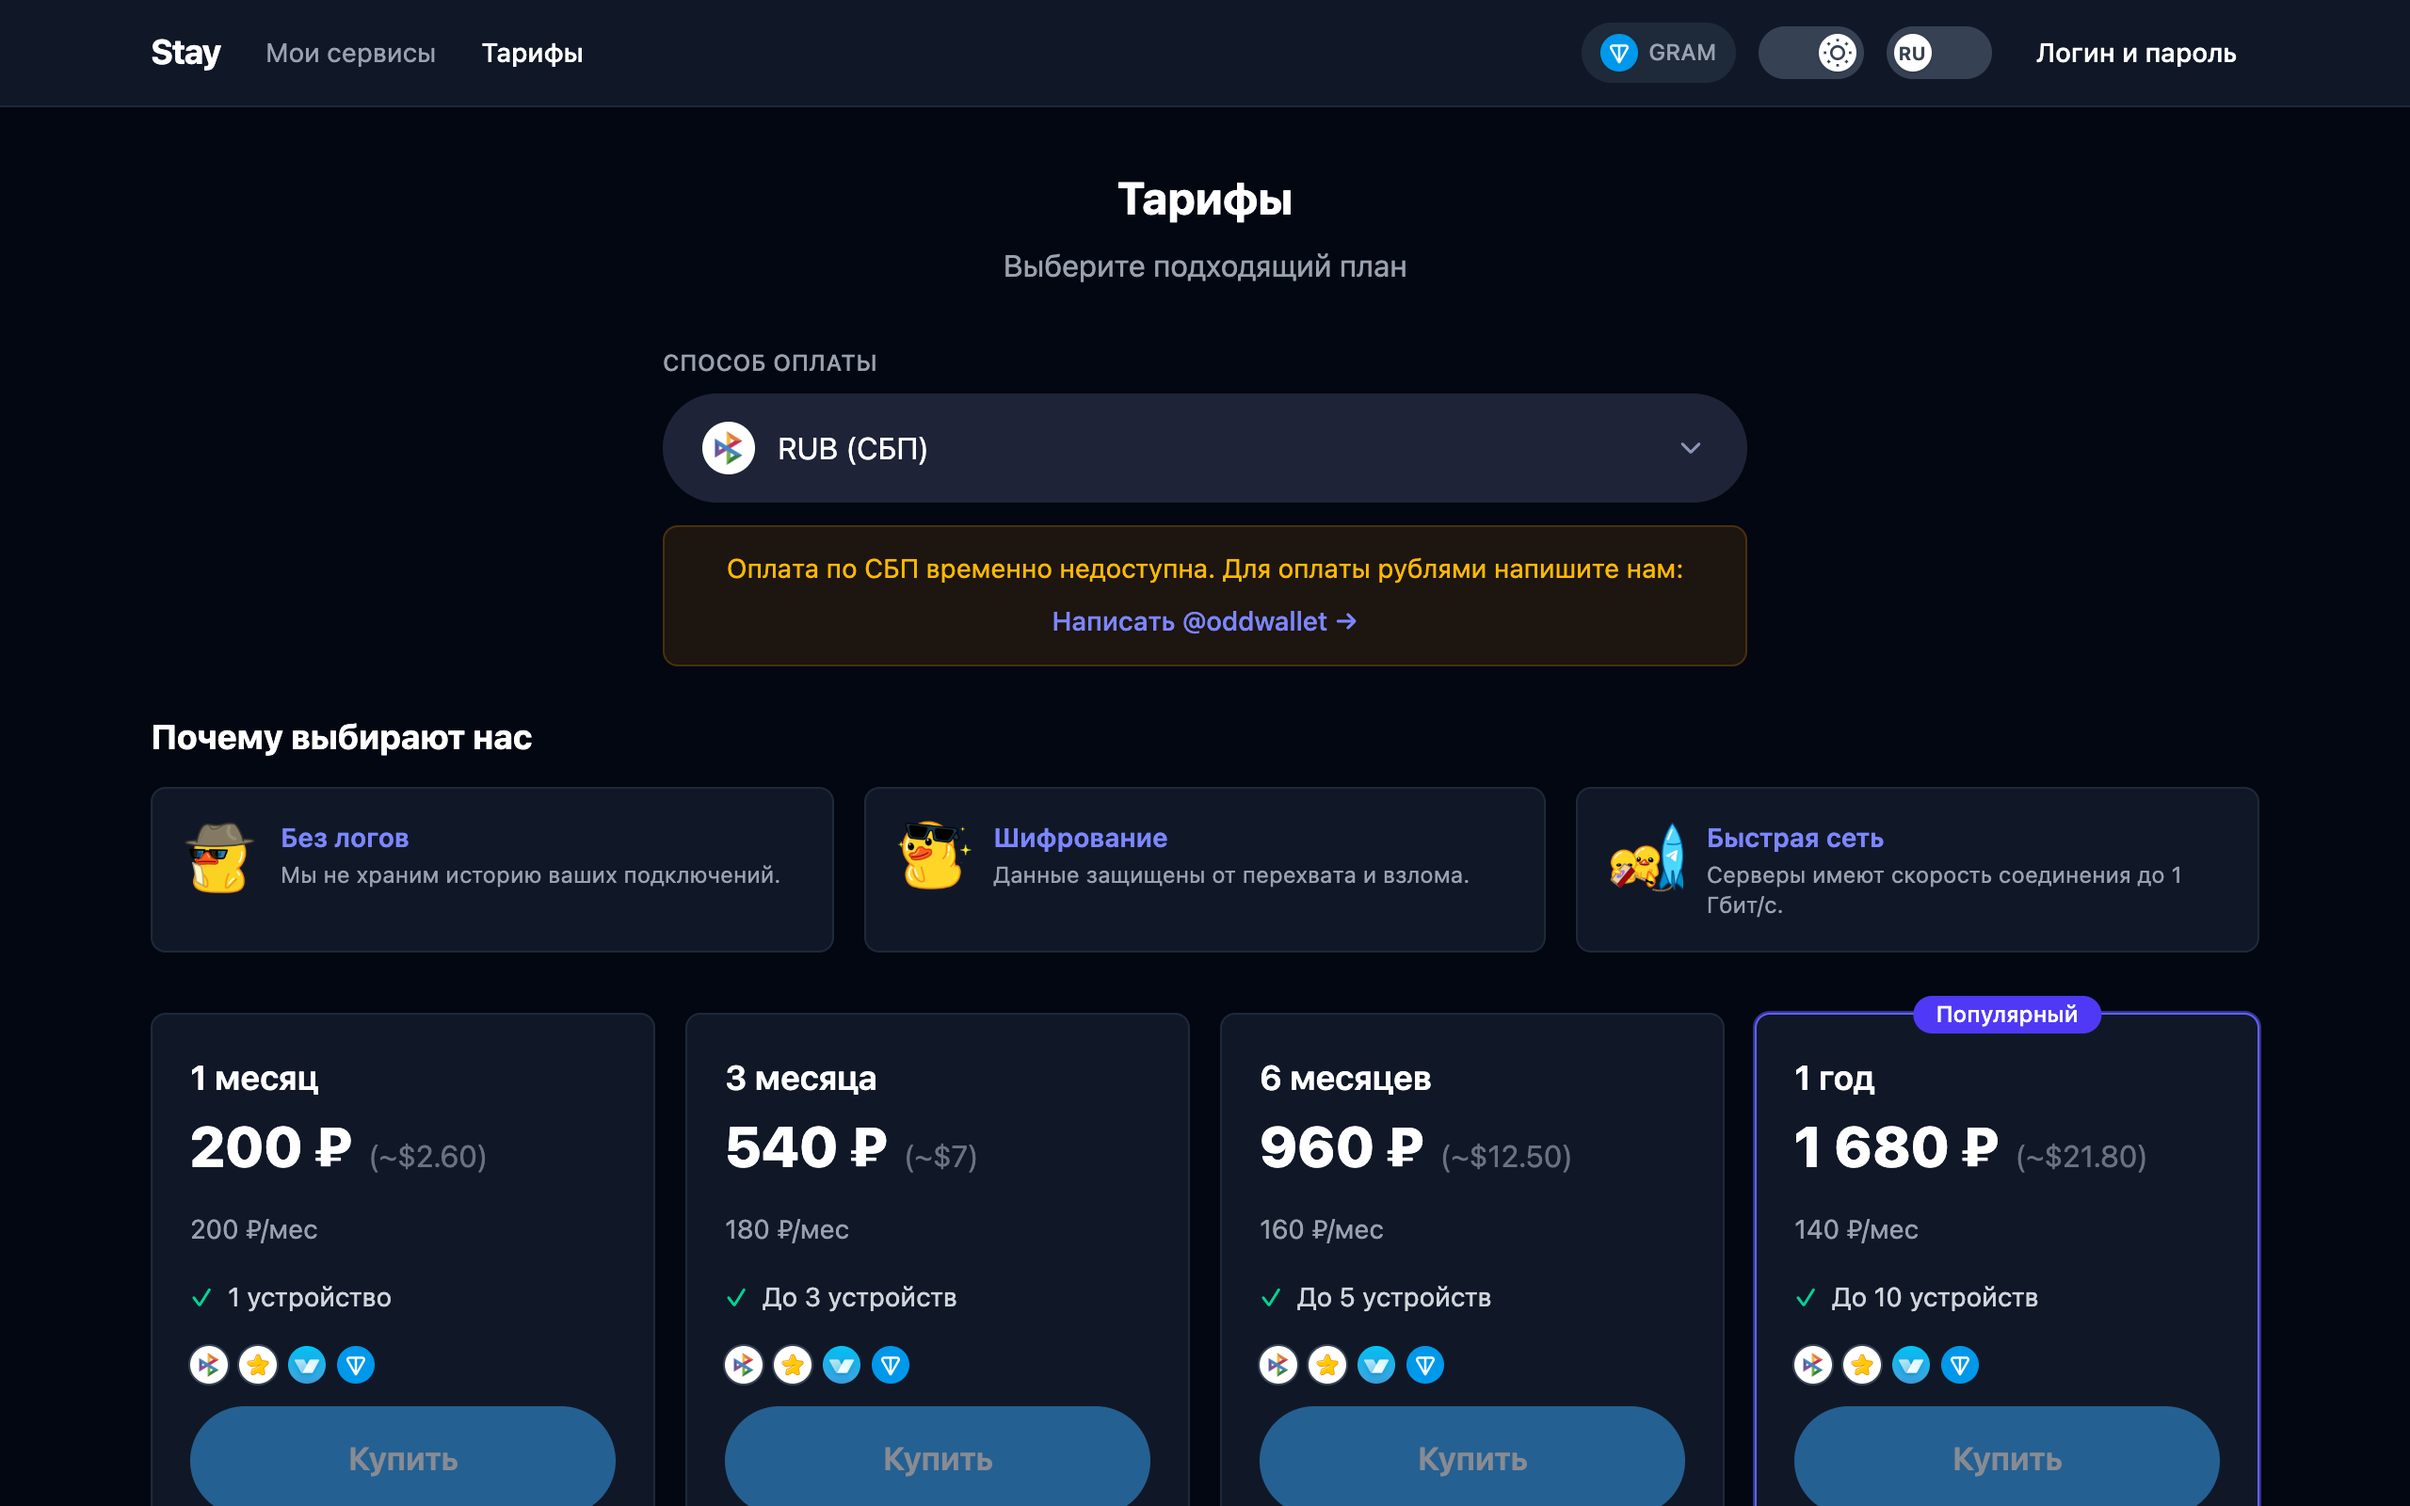
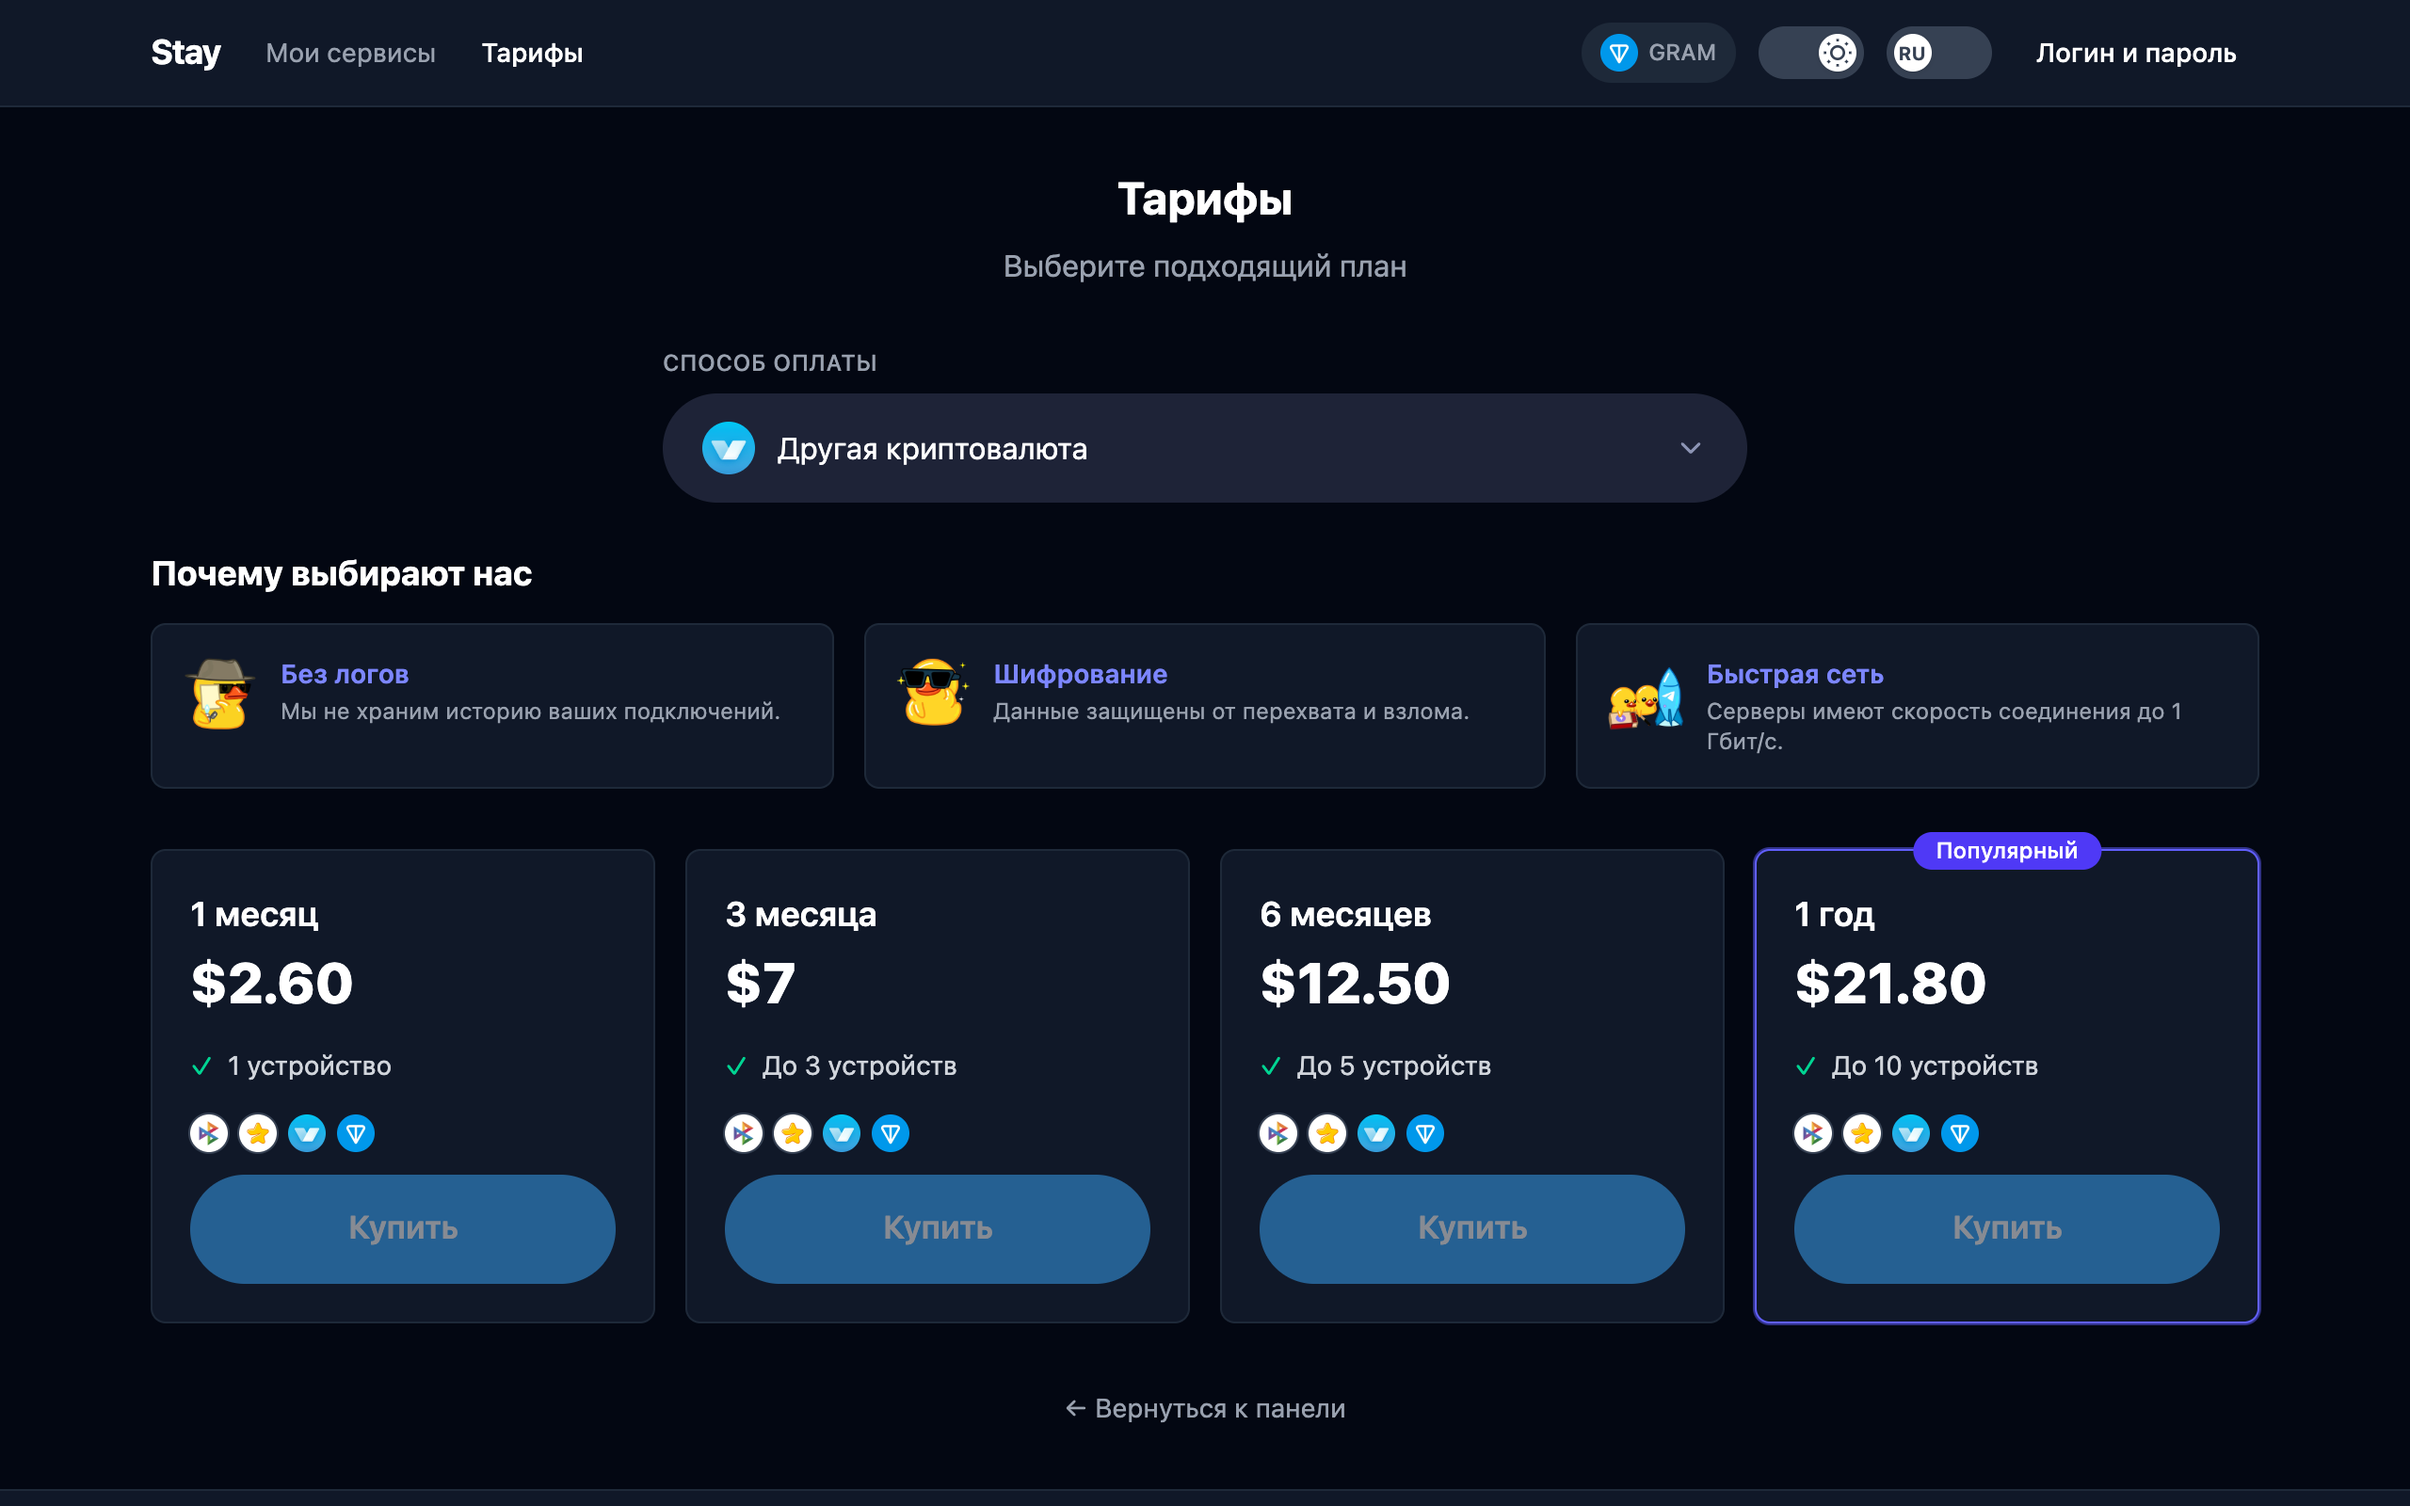
README: promo layout with site/bot/news links; pricing shot without SBP notice

diff --git a/README.md b/README.md
@@ -2,24 +2,19 @@
 
 # Stay
 
-**Telegram Mini App и сайт для продажи подписок на защищённое подключение.**
-Оплата в пару кликов, ссылка на подключение выдаётся сразу и работает ровно до конца оплаченного периода.
+**Защищённое подключение для ваших устройств — прямо из Telegram.**
+Оплата в пару кликов, ссылка на подключение приходит сразу и работает весь оплаченный период.
 
-[![Go](https://img.shields.io/badge/Go-1.24-00ADD8?logo=go&logoColor=white)](backend/go.mod)
-[![React](https://img.shields.io/badge/React-19-61DAFB?logo=react&logoColor=black)](frontend/package.json)
-[![TypeScript](https://img.shields.io/badge/TypeScript-5.9-3178C6?logo=typescript&logoColor=white)](frontend/package.json)
-[![PostgreSQL](https://img.shields.io/badge/PostgreSQL-15+-4169E1?logo=postgresql&logoColor=white)](backend/internal/database/db.go)
-[![Telegram Mini App](https://img.shields.io/badge/Telegram-Mini_App-26A5E4?logo=telegram&logoColor=white)](https://core.telegram.org/bots/webapps)
-[![Prometheus](https://img.shields.io/badge/Prometheus-+_Grafana-E6522C?logo=prometheus&logoColor=white)](ops/README.md)
-
-[Возможности](#возможности) · [Скриншоты](#скриншоты) · [Как устроено](#как-устроено) · [Запуск](#запуск) · [Эксплуатация](ops/README.md)
+[![Сайт](https://img.shields.io/badge/Сайт-staytg.org-4F46E5?style=for-the-badge)](https://staytg.org)
+[![Бот](https://img.shields.io/badge/Бот-@staytg__bot-26A5E4?style=for-the-badge&logo=telegram&logoColor=white)](https://t.me/staytg_bot)
+[![Новости](https://img.shields.io/badge/Новости-@staytg__news-26A5E4?style=for-the-badge&logo=telegram&logoColor=white)](https://t.me/staytg_news)
 
 </div>
 
 <p align="center">
   <picture>
     <source media="(prefers-color-scheme: dark)" srcset="docs/screenshots/home-dark.png">
-    <img alt="Главная страница" src="docs/screenshots/home-light.png" width="100%">
+    <img alt="Stay — главная" src="docs/screenshots/home-light.png" width="100%">
   </picture>
 </p>
 
@@ -27,16 +22,13 @@
 
 | | |
 |---|---|
-| 💳 **Четыре способа оплаты** | CryptoBot, СБП (DigitalPay), TON через TON Connect, Telegram Stars |
-| ⏳ **Подписки 1 / 3 / 6 / 12 месяцев** | Продление добавляет срок к текущему, а не сгорает |
-| 🔗 **Ссылки-подписки** | Клиенты создаются в панели 3x-ui, ссылка перестаёт работать в день окончания подписки |
-| 📱 **Telegram Mini App** | Вход по `initData`, оплата звёздами прямо в Telegram, уведомления от бота |
-| 🔐 **Три способа входа** | Telegram OIDC, Mini App, логин и пароль |
-| 🎁 **Рефералы** | Пригласивший получает 15% дней от каждой оплаты друга |
-| 🛠 **Админка** | Пользователи, роли, лимиты устройств, все подключения |
-| 📊 **Мониторинг и бэкапы** | Метрики Prometheus, дашборд Grafana, дамп базы раз в две недели |
-
-## Скриншоты
+| ⚡ **Мгновенно** | Оплатил, нажал «Создать» — ссылка на подключение готова |
+| ⏳ **1, 3, 6 или 12 месяцев** | Чем дольше срок, тем дешевле месяц. Продление добавляется к текущему сроку |
+| 📱 **До 10 устройств** | Отдельная ссылка для каждого телефона, ноутбука или планшета |
+| 💳 **Удобная оплата** | Криптовалюта через CryptoBot, GRAM через TON-кошелёк, Telegram Stars |
+| 🕶 **Без KYC и без логов** | Не нужны документы, мы не храним историю подключений |
+| 🤖 **Всё в Telegram** | Вход в один тап, напоминания об окончании подписки от бота |
+| 🎁 **Приглашай друзей** | +15% дней от каждой оплаты приглашённого друга |
 
 <table>
   <tr>
@@ -45,105 +37,22 @@
         <source media="(prefers-color-scheme: dark)" srcset="docs/screenshots/pricing-dark.png">
         <img alt="Тарифы" src="docs/screenshots/pricing-light.png">
       </picture>
-      <p align="center"><b>Тарифы и способы оплаты</b></p>
+      <p align="center"><b>Тарифы</b></p>
     </td>
     <td width="50%">
       <picture>
         <source media="(prefers-color-scheme: dark)" srcset="docs/screenshots/services-dark.png">
         <img alt="Мои сервисы" src="docs/screenshots/services-light.png">
       </picture>
-      <p align="center"><b>Подписка и ссылки на подключение</b></p>
+      <p align="center"><b>Ваши подключения</b></p>
     </td>
   </tr>
 </table>
 
-<details>
-<summary><b>📱 Как это выглядит в Telegram</b></summary>
-<br>
-<p align="center">
-  <img alt="Главная в Mini App" src="docs/screenshots/mobile-home-dark.png" width="30%">
-  &nbsp;
-  <img alt="Тарифы в Mini App" src="docs/screenshots/mobile-pricing-dark.png" width="30%">
-  &nbsp;
-  <img alt="Подключения в Mini App" src="docs/screenshots/mobile-services-dark.png" width="30%">
-</p>
-</details>
+<div align="center">
 
-## Как устроено
+### Попробовать
 
-```mermaid
-flowchart LR
-    U(["Пользователь<br/>сайт или Mini App"]) -->|HTTPS| N[nginx]
-    N -->|статика| F["frontend<br/>React + Vite"]
-    N -->|/api| B["backend<br/>Go + chi"]
-    B --> DB[(PostgreSQL)]
-    B -->|клиенты и сроки| X["панель 3x-ui"]
-    B <-->|счета и вебхуки| P["CryptoBot · DigitalPay<br/>TON · Telegram Stars"]
-    B -->|уведомления| T["Telegram Bot API"]
-    U -.->|ссылка-подписка| X
-    PR[Prometheus] -->|/metrics| B
-    G[Grafana] --> PR
-```
+**[Открыть в Telegram →](https://t.me/staytg_bot)** · **[staytg.org](https://staytg.org)** · **[Новости @staytg_news](https://t.me/staytg_news)**
 
-<details>
-<summary><b>Путь оплаты</b></summary>
-<br>
-
-```mermaid
-sequenceDiagram
-    actor U as Пользователь
-    participant S as Stay backend
-    participant P as Платёжка
-    participant X as 3x-ui
-    U->>S: выбрал тариф и способ оплаты
-    S->>P: создать счёт
-    S-->>U: ссылка на оплату
-    U->>P: оплатил
-    P->>S: вебхук (или проверка по кнопке)
-    S->>S: pending → paid (ровно один раз)
-    S->>S: подписка + реферальный бонус
-    S->>X: продлить срок всех подключений
-    S-->>U: сообщение от бота
-```
-</details>
-
-<details>
-<summary><b>Структура репозитория</b></summary>
-<br>
-
-```
-backend/          Go API
-  cmd/server/       точка входа, роутинг
-  internal/
-    handlers/       HTTP: авторизация, оплаты, подключения, админка, бот
-    database/       Postgres, миграции при старте
-    xui/            клиент API 3x-ui v3
-frontend/         React SPA (Vite, Tailwind, TON Connect)
-ops/
-  monitoring/       Prometheus, Grafana, экспортеры (docker compose)
-  backup/           pg_dump раз в две недели + systemd timer
-deploy/           инструкция по деплою на хост
-docs/screenshots/ картинки для этого README
-```
-</details>
-
-## Запуск
-
-```bash
-# бэкенд: нужен PostgreSQL и .env (переменные в deploy/README.md);
-# 8080 — порт, на который dev-сервер фронта проксирует /api
-cd backend && SERVER_PORT=8080 go run ./cmd/server
-
-# фронт: http://localhost:5173
-cd frontend && npm ci && npm run dev
-```
-
-Тесты:
-
-```bash
-cd backend && go test ./...
-```
-
-Тест базы запускается только с переменной `TEST_DATABASE_URL`, указывающей на одноразовый Postgres: он пересоздаёт схему.
-
-Продакшн-деплой описан в [deploy/README.md](deploy/README.md), мониторинг и бэкапы в [ops/README.md](ops/README.md).
+</div>
